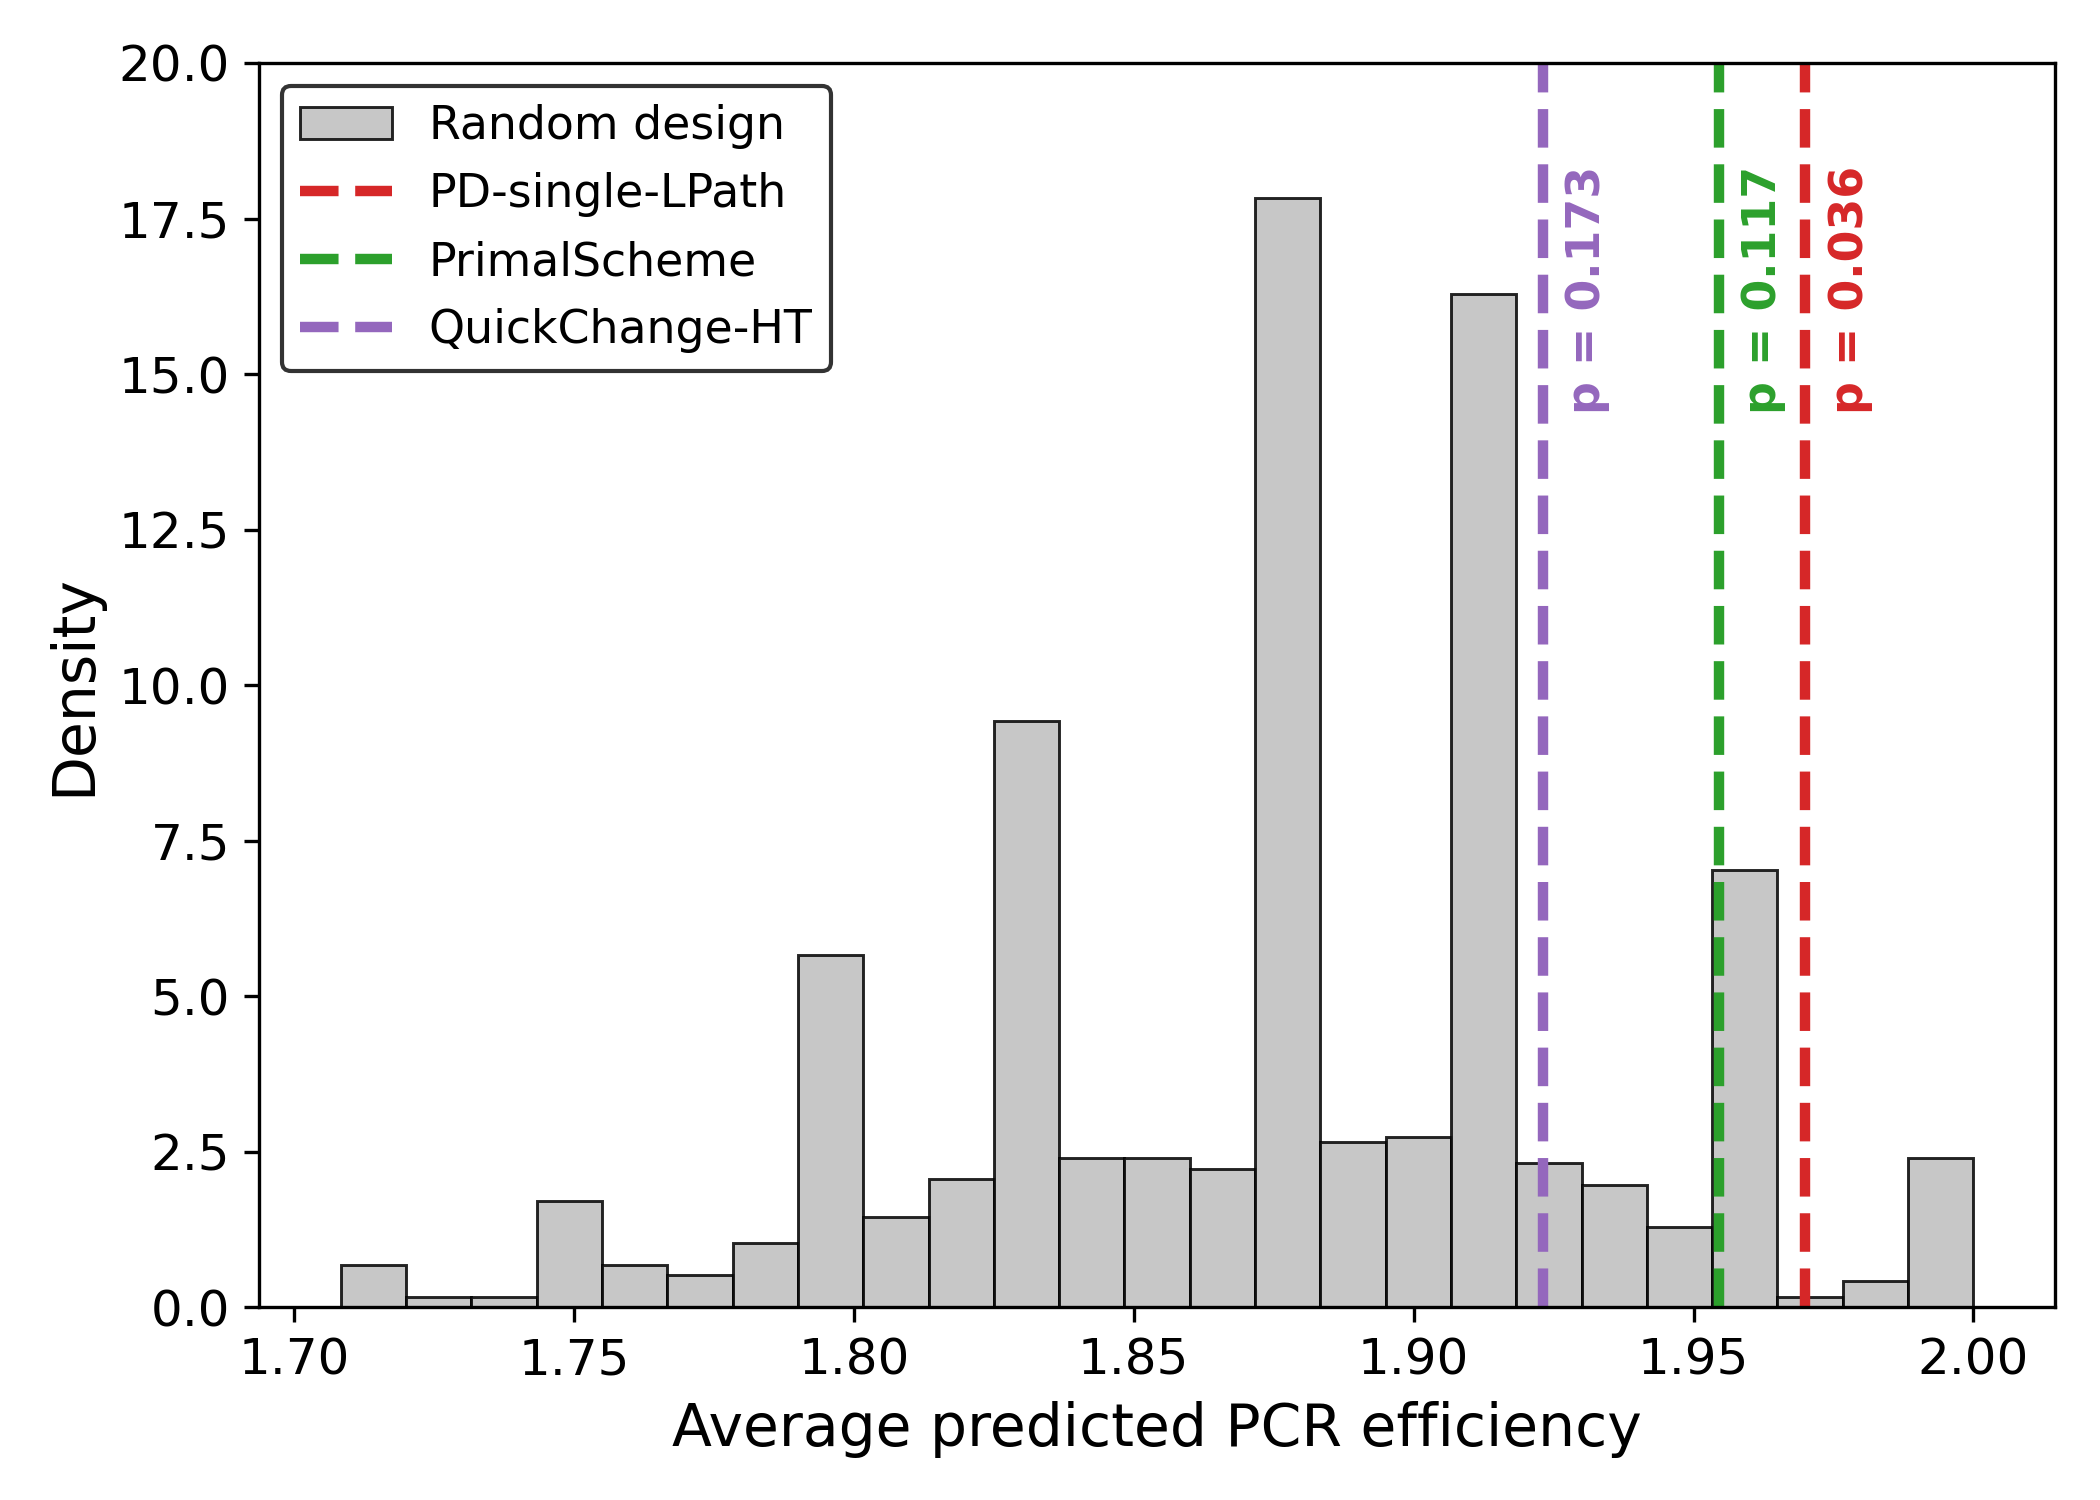
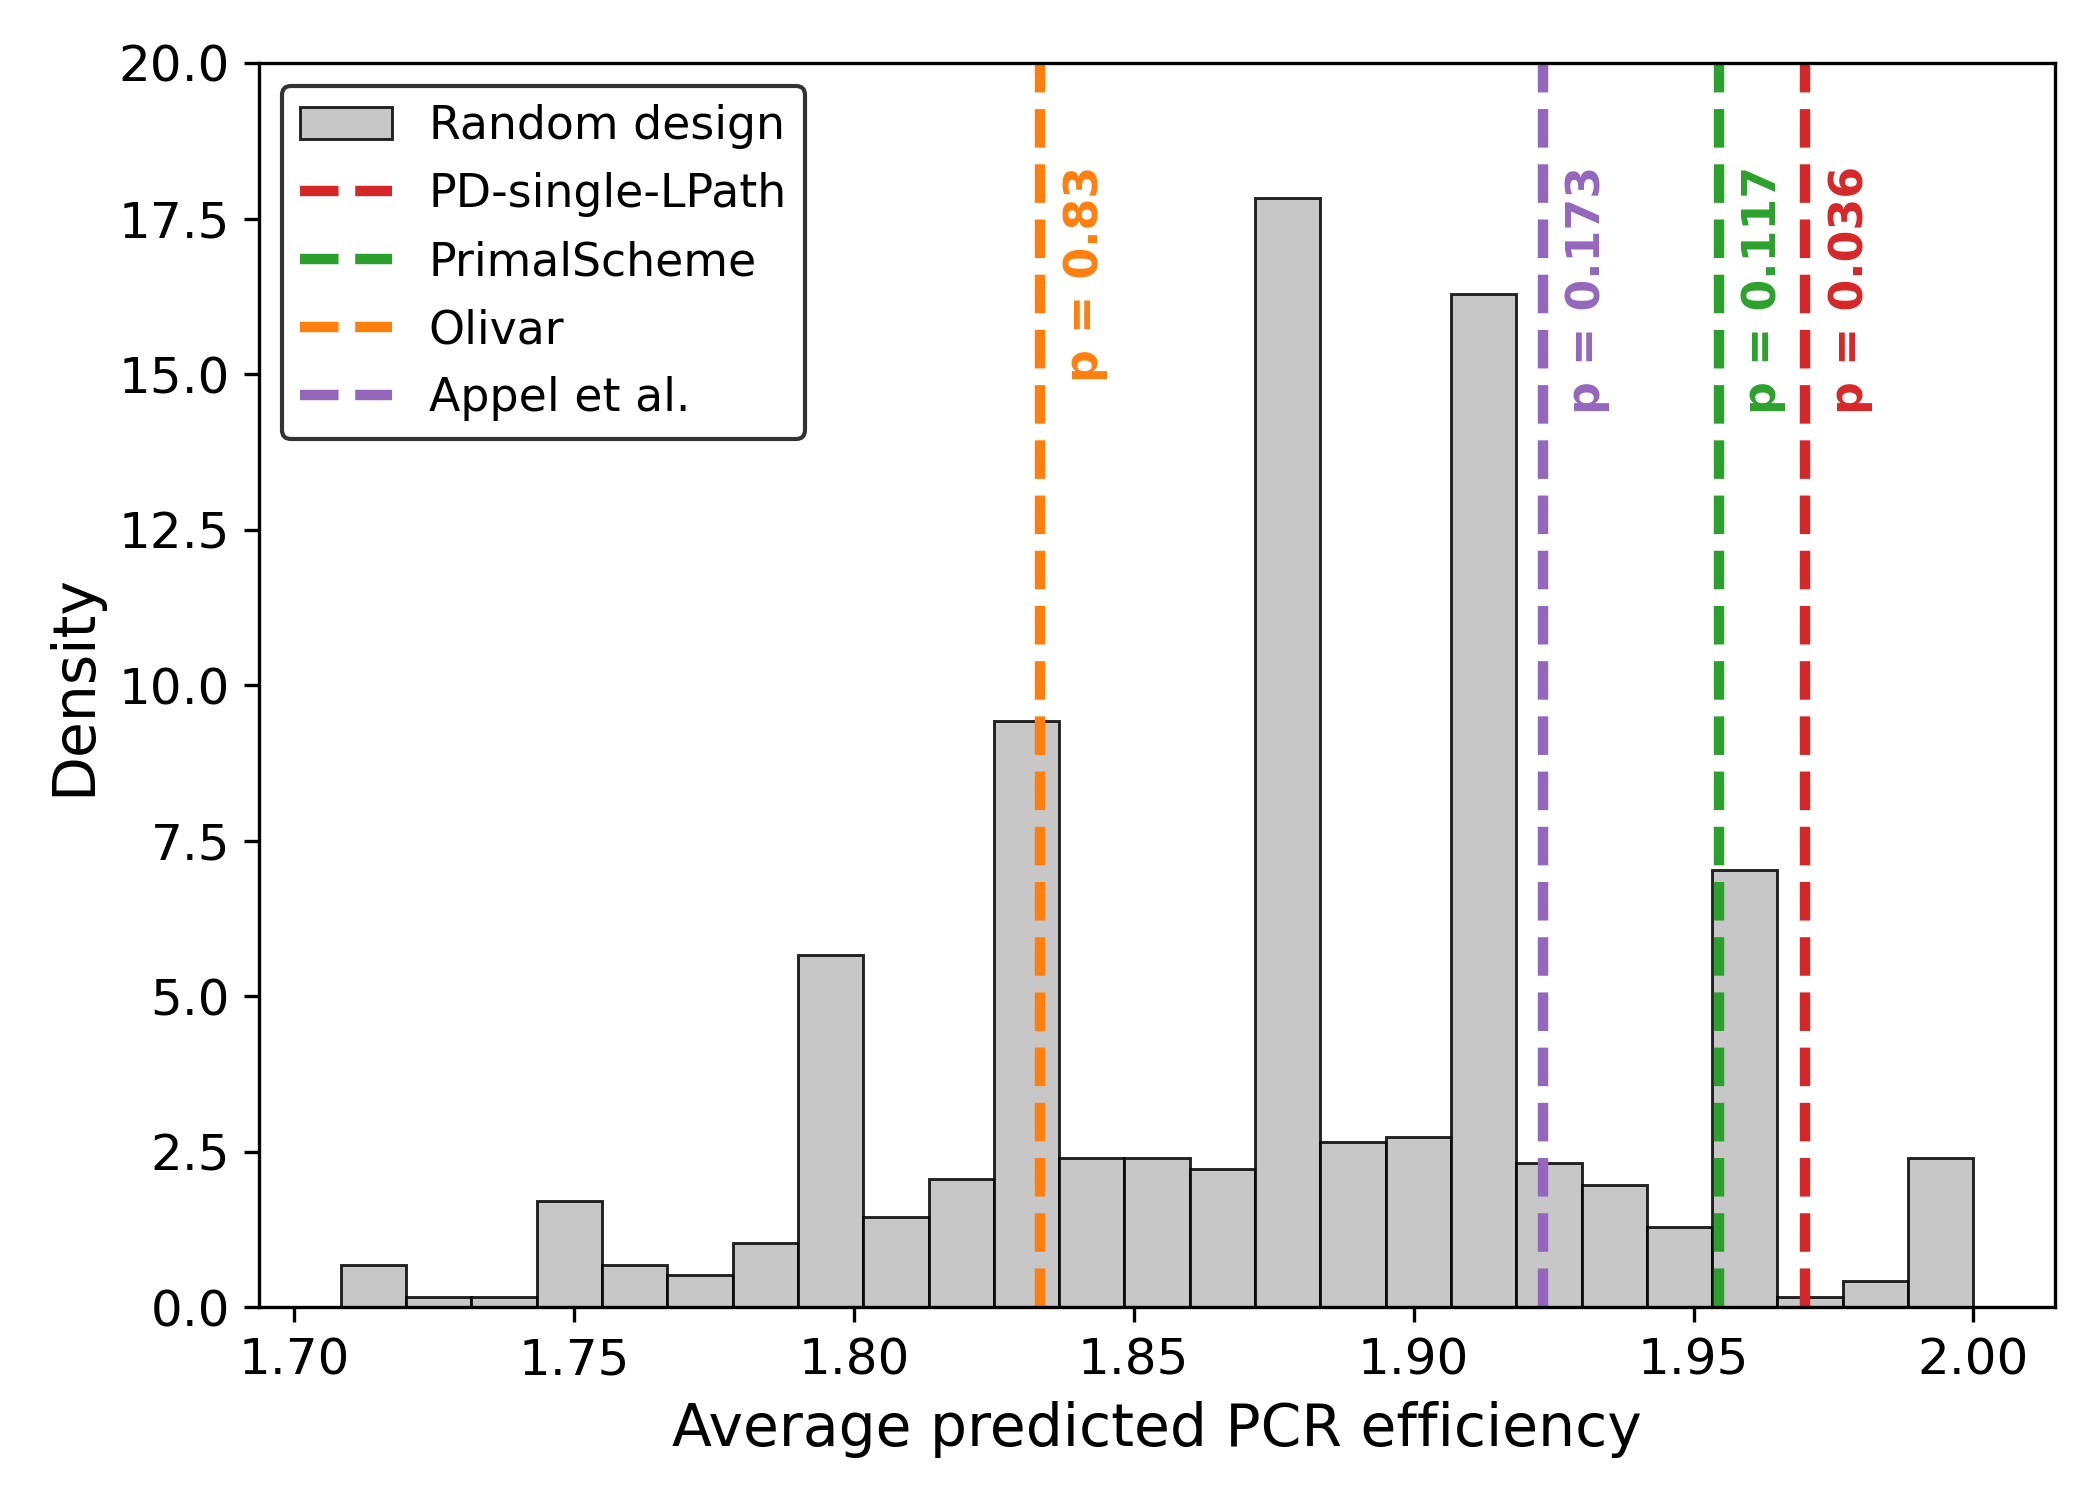
commit changes

Changed region(s): [[0.1238, 0.0613, 0.4024, 0.3067], [0.4952, 0.092, 0.5262, 0.276]]

diff --git a/scripts/p_vals_spap.py b/scripts/p_vals_spap.py
@@ -8,13 +8,14 @@ matplotlib.use("Agg")
 import matplotlib.pyplot as plt
 
 # ---------------- CONFIG ----------------
-NULL_CSV = "external/pcrEfficiency/Results/null_scores_SPAP.csv"
+NULL_CSV = "Comparisons/Results/null_scores_SPAP.csv"
 NULL_COL = "avg_efficiency"
 
 METHOD_SCORES = {
     "PD-single-LPath": 1.970000,
     "PrimalScheme": 1.954545,
-    "QuickChange-HT": 1.923077,
+    "Olivar": 1.833333,
+    "Appel et al.": 1.923077,
 }
 
 OUT_FIG = "Results/null_distribution_spap.png"
@@ -57,8 +58,9 @@ def plot_null_with_methods(null, method_scores, out_path):
     colors = {
         "PD-single-LPath": "#d62728",
         "PrimalScheme": "#2ca02c",
-        "QuickChange-HT": "#9467bd",
-        }
+        "Olivar": "#ff7f0e",
+        "Appel et al.": "#9467bd",
+    }
 
     # Vertical lines
     for method, score in method_scores.items():
@@ -107,6 +109,10 @@ def plot_null_with_methods(null, method_scores, out_path):
     plt.close(fig)
 
 
+def empirical_percentile(null, score):
+    return 100.0 * np.sum(null <= score) / float(len(null))
+
+
 def main():
 
     null = load_null_scores(NULL_CSV, NULL_COL)
@@ -114,6 +120,11 @@ def main():
     plot_null_with_methods(null, METHOD_SCORES, OUT_FIG)
 
     print("Saved figure to:", OUT_FIG)
+    print()
+    for method, score in METHOD_SCORES.items():
+        pval = empirical_p_value(null, score)
+        pctl = empirical_percentile(null, score)
+        print(f"{method:20s}  score={score:.6f}  p-value={pval:.4g}  percentile={pctl:.1f}%")
 
 
 if __name__ == "__main__":

diff --git a/tool.py b/tool.py
@@ -11,7 +11,7 @@ def main():
     # parse user arguments
     args = get_args()
 
-    cfg = load_config("config.json")
+    cfg = load_config(args.config)
 
     # read protein coding-sequences from file
     mutreg_regions, full_sequences, protein_names = read_sequences(args.file_path,cfg)

diff --git a/scripts/p_vals_geller.py b/scripts/p_vals_geller.py
@@ -8,7 +8,7 @@ matplotlib.use("Agg")
 import matplotlib.pyplot as plt
 
 # ---------------- CONFIG ----------------
-NULL_CSV = "external/pcrEfficiency/Results/null_scores_Geller.csv"
+NULL_CSV = "Comparisons/Results/null_scores_CVB3.csv"
 NULL_COL = "avg_efficiency"
 
 METHOD_SCORES = {
